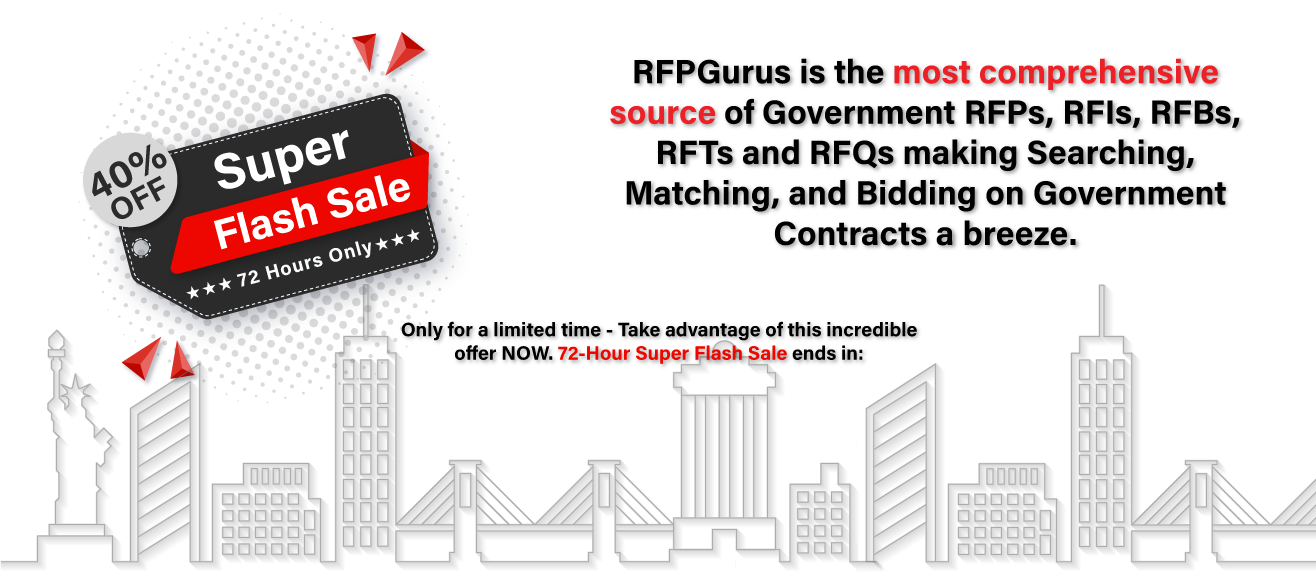
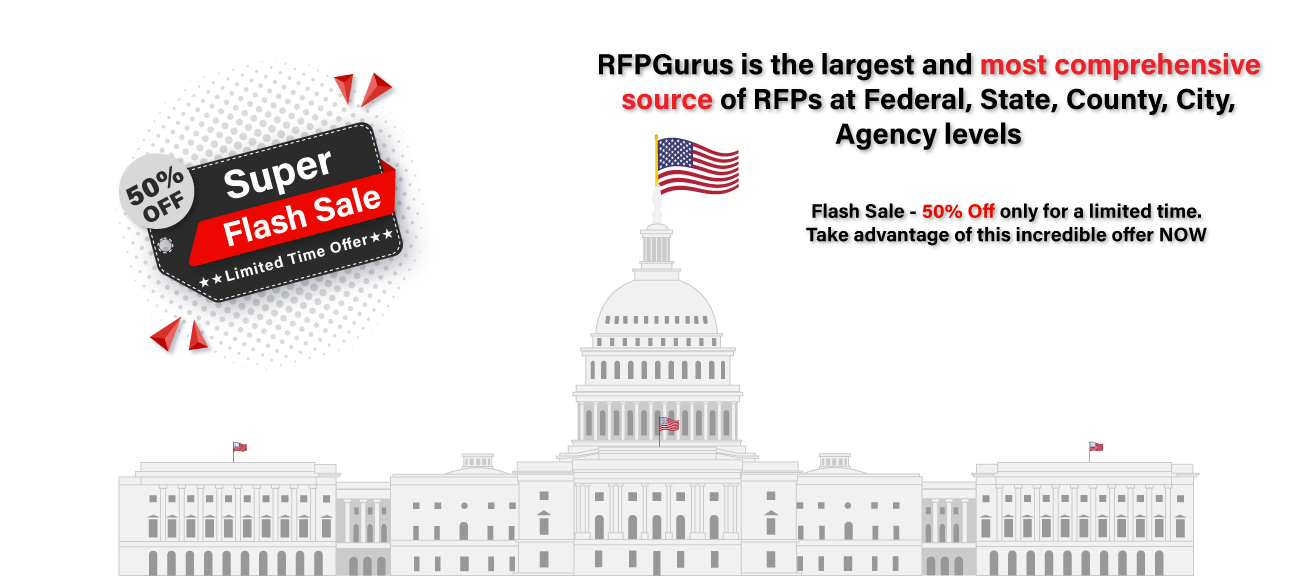
adasda

diff --git a/src/app/components/other/pricing/pricing.component.html b/src/app/components/other/pricing/pricing.component.html
@@ -5,11 +5,11 @@
       <div *ngIf="Yplan && Mplan" class="col-lg-12 col-md-12 col-sm-12 col-xs-12 text-center">
         <h2 *ngIf="isfreetrial" class="pricing_heading">Join RFPGurus for a 7-day risk-free trial period</h2>
         <h2 class="color-red">
-
-          72 Hour Super Flash Sale - 50% Off only for a limited time.</h2>
-        <h2 class="color-red">Independence Day Savings - Take advantage of this incredible offer NOW</h2>
+           
+          Flash Sale - 50% Off only for a limited time.</h2>
+        <h2 class="color-red">Take advantage of this incredible offer NOW </h2>
             
-            <countdown class="col-lg-12 mainpagee"  [text]="text" units=" Days | Hours | Minutes | Seconds" end="July 08, 2019 18:40:00"> </countdown>
+            <countdown class="col-lg-12 mainpagee"  [text]="text" units=" Days | Hours | Minutes | Seconds" end="July 11, 2019 18:40:00"> </countdown>
 
         <h2 class="main_heading">Our Unbeatable Pricing Model </h2>
         <p><b>Unbeatable Pricing. One-Package-Includes-All Features & RFPs Nationwide.
@@ -43,7 +43,7 @@
             <sup class="currency">$</sup>
             <strong>0.00</strong>
           </p> -->
-          <img src="{{priceimages}}">
+          <img src="https://storage.rfpgurus.com/category_images/Free.png">
           <ul class="list-pricing home-list-pricing">
             <li>
               <i class="fa fa-check"></i> Upto 5 RFP View/Downloads
@@ -108,7 +108,7 @@
                   <sup class="currency">$</sup>
                   <strong>24.99</strong>
                 </p> -->
-                <img width="100%" src="{{monthly}}">
+                <img width="100%" src="https://storage.rfpgurus.com/category_images/Monthlynew.png">
                 <ul class="list-pricing home-list-pricing">
                   <li>
                     <i class="fa fa-check"></i> Unlimited RFP Views/Downloads
@@ -176,7 +176,8 @@
                 <sup class="currency">$</sup>
                 <strong>299.99</strong>
               </p> -->
-              <img width="100%" src="{{year}}">
+              <img width="100%" src="	
+              https://storage.rfpgurus.com/category_images/Yearlynew.png">
               <ul class="list-pricing home-list-pricing">
                   
                   

diff --git a/src/app/components/common/home/home.component.html b/src/app/components/common/home/home.component.html
@@ -92,15 +92,15 @@
     <div class="container-fluid">
       <div class="col-lg-7 col-md-8 col-sm-12">
            
-        <h4 class="hd1">72 Hour Super Flash Sale - 50% Off only for a limited time.</h4>
+        <h4 class="hd1">Flash Sale - 50% Off only for a limited time.</h4>
         
-        <h4 class="hd1">Independence Day Savings -  Take advantage of this incredible offer NOW </h4>
+        <h4 class="hd1">Take advantage of this incredible offer NOW </h4>
       </div>
       <div class="col-lg-3 col-md-4 col-sm-12 pd-0-i">
-            {{totaltime?.sale_timer  | date:'medium'}}
+             
         <!-- <countdown-timer  class="mainpagee1 pd-0-i" [start]="'2019-05-07 00:00:00'"></countdown-timer> -->
         <countdown class="mainpagee1 pd-0-i"  units=" Days | Hours | Minutes | Seconds"
-          end="2019-07-09"> </countdown>
+          end="July 11, 2019 18:40:00"> </countdown>
       </div>
     
       <div class="col-lg-2 col-md-12 col-sm-12  text-center">
@@ -449,7 +449,7 @@
                     <div class="close-button"> <button type="button" class="close sh" data-dismiss="modal"
                             aria-label="Close"> <span aria-hidden="true">&times;</span> </button></div>
                     <!-- <img src="https://storage.rfpgurus.com/images/Header-without-button.png"> -->
-                     <img src="../../../../assets/img/Independance-Day-Sale-Banner.png">
+                     <img src="../../../../assets/img/Popup-Banner.png">
                     
                 </div>
                 <div class="modal-footer"> 
@@ -460,7 +460,7 @@
                             class="btn btn-primary btn-must-signup Sub-btn" data-dismiss="modal">Subscribe
                             Now</button> </a>
                 </div>
-                            <countdown class="benner-conter mainpagee"   units=" Days | Hours | Minutes | Seconds" end="{{totaltime}}"> </countdown>
+                            <countdown class="benner-conter mainpagee"   units=" Days | Hours | Minutes | Seconds" end="July 11, 2019 18:40:00"> </countdown>
 
             </div>
         </div>

diff --git a/src/app/components/common/home/home.component.css b/src/app/components/common/home/home.component.css
@@ -856,7 +856,7 @@ font-family: Helvetica!important
   width: 300px;
   position: absolute;
   top: auto;
-  right: 542px;
+  right: 64px;
     bottom: 231px;
 }
 .custom-model .modal-body {
